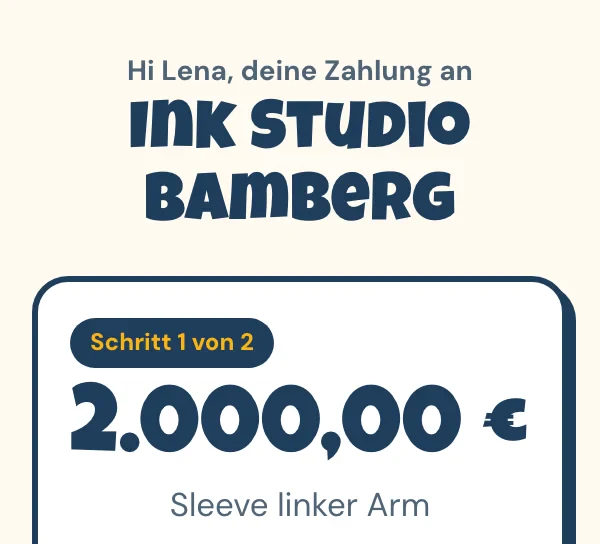
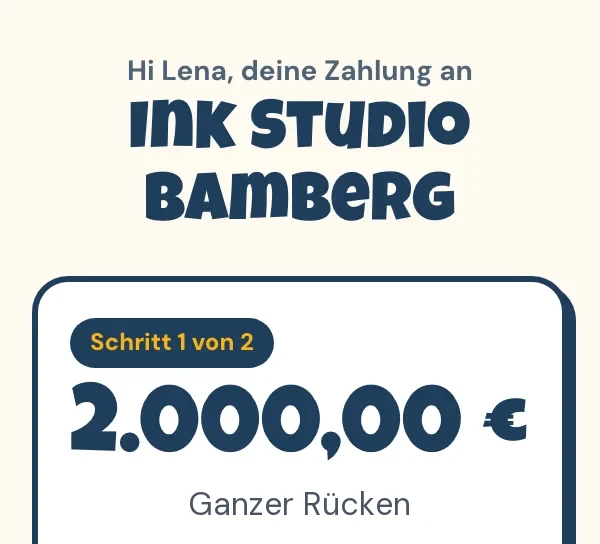
Tattoofin LP: Vertriebs-Umbau (Hero auf Inhaber, Anzeigen-Varianten, Entscheidungszone, Einwände, Preis-Wert, App-Hinweis, Cookie-Leiste Tablet)

Changed region(s): [[0.27, 0.9062, 0.72, 0.9688]]

diff --git a/tattoofin/website/public/studios.html b/tattoofin/website/public/studios.html
@@ -35,9 +35,10 @@
   <main id="inhalt">
   <section class="auftakt">
     <div class="auftakt-kopf">
-      <p class="kicker">Sleeve für 2.000&nbsp;€, aber dein Kunde hat's nicht auf einmal?</p>
-      <h1>Raten* für deine Kunden.</h1>
-      <p class="unterzeile">Link per WhatsApp. Kunde zahlt am Handy.</p>
+      <p class="kicker" data-hero="k">Tattoostudio-Besitzer, aufgepasst!</p>
+      <h1 data-hero="h">Ganzer Rücken? Du kriegst die 2.000&nbsp;€ auf einmal.</h1>
+      <p class="unterzeile" data-hero="s">Betrag rein, Link per WhatsApp raus. Dein Kunde zahlt am Handy, auch in Raten* über Klarna.</p>
+      <p class="hero-chips">Anzahlung · Raten* · Gutscheine – alles per Link</p>
     </div>
     <div class="buehne">
       <span class="deko dk-stern" aria-hidden="true"><svg class="motiv " viewBox="-4 -4 108 108" aria-hidden="true" focusable="false" ><path class="f" fill="#fbb316" d="M50.0 6.0 L61.4 36.4 L93.7 37.8 L68.4 58.0 L77.0 89.2 L50.0 71.3 L23.0 89.2 L31.6 58.0 L6.3 37.8 L38.6 36.4 Z" /><path class="l" pathLength="1" fill="none" stroke="#1f3d5c" stroke-width="5.5" stroke-linecap="round" stroke-linejoin="round" d="M50.0 6.0 L61.4 36.4 L93.7 37.8 L68.4 58.0 L77.0 89.2 L50.0 71.3 L23.0 89.2 L31.6 58.0 L6.3 37.8 L38.6 36.4 Z" /><path class="f" fill="#1f3d5c" d="M50 52 L50.0 6.0 L61.4 36.4 Z M50 52 L93.7 37.8 L68.4 58.0 Z M50 52 L77.0 89.2 L50.0 71.3 Z M50 52 L23.0 89.2 L31.6 58.0 Z M50 52 L6.3 37.8 L38.6 36.4 Z " /></svg></span>
@@ -52,12 +53,14 @@
       <img class="hausherr" src="/assets/start/figur.webp" alt="Tattoofin-Figur mit tätowierten Armen zeigt den Daumen hoch" width="300" height="310" decoding="async">
       <figure class="auftakt-handy">
         <span class="klebe" aria-hidden="true"></span>
-        <span class="handy-rahmen"><img src="/assets/start/handy-kunde-oben.webp" alt="Echte Tattoofin-Zahlseite am Handy: Hi Lena, deine Zahlung an Ink Studio Bamberg, Schritt 1 von 2, 2.000,00 Euro, Sleeve linker Arm. Beispieldaten." width="600" height="545" fetchpriority="high"><button type="button" class="film-knopf" data-film aria-haspopup="dialog"><span aria-hidden="true">▶</span> 10 Sek. ansehen</button></span>
+        <span class="handy-rahmen"><img src="/assets/start/handy-kunde-oben.webp" alt="Echte Tattoofin-Zahlseite am Handy: Hi Lena, deine Zahlung an Ink Studio Bamberg, Schritt 1 von 2, 2.000,00 Euro, Ganzer Rücken. Beispieldaten." width="600" height="545" fetchpriority="high"><button type="button" class="film-knopf" data-film aria-haspopup="dialog"><span aria-hidden="true">▶</span> 10 Sek. ansehen</button></span>
         <figcaption>Echte App · Beispieldaten</figcaption>
       </figure>
     </div>
     <div class="auftakt-fuss">
-      <div class="auftakt-knopf"><a class="knopf" href="/start.html?utm_source=studios&amp;utm_medium=seite&amp;utm_content=auftakt" data-umami-event="start-auftakt">Jetzt starten</a></div>
+      <p class="hero-beleg"><a href="#nr1">Echter Fall: Rücken-Tattoo, 900&nbsp;€ per Klarna bezahlt – 07.11.</a></p>
+      <div class="auftakt-knopf"><a class="knopf" href="/start.html?utm_source=studios&amp;utm_medium=seite&amp;utm_content=auftakt" data-umami-event="start-auftakt">Studio anmelden – 3&nbsp;Min.</a></div>
+      <p class="hero-wa"><a href="https://wa.me/491624502375?text=Hi%20Tattoofin-Team%2C%20ich%20habe%20eure%20Anzeige%20gesehen%2C%20habe%20ein%20Tattoo-Studio%20und%20eine%20Frage%20zu%20Tattoofin%3A" data-umami-event="whatsapp-auftakt">Lieber erst fragen? Schreib unserem Team per WhatsApp&nbsp;→</a></p>
       <p class="preiszeile">49,90&nbsp;€ im Monat inkl. MwSt. · keine Provision · monatlich kündbar <span class="b2b">· nur für Unternehmer</span></p>
       <p class="raten-fn">*Raten über Klarna, nach deren Bonitätsprüfung. Vertragspartner der Raten ist Klarna, nicht Tattoofin. Achtung! Kreditaufnahme kostet Geld.</p>
     </div>
@@ -91,6 +94,7 @@
 
   <section class="werkzeuge" aria-labelledby="werkzeuge-titel">
     <h2 id="werkzeuge-titel">Alles läuft übers Handy.</h2>
+    <p class="app-schild"><span class="app-neu">Neu</span> Tattoofin gibt’s auch als iPhone-App. Nach der Anmeldung bekommst du sie von uns.</p>
     <div class="stuecke">
       <article class="stueck" id="nr2">
         <div class="stueck-bild">
@@ -147,6 +151,16 @@
     </div>
   </section>
 
+  <section class="einwaende" aria-labelledby="einwaende-titel">
+    <h2 id="einwaende-titel">Klingt gut, aber …</h2>
+    <ul class="einwand-liste">
+      <li class="einwand"><p class="einwand-frage">„Ich hab schon SumUp &amp; Co.“</p><p>Behalt es. Dein Kartengerät kassiert an der Theke. Tattoofin kassiert vorher: Anzahlung per WhatsApp, Raten*, Gutscheine.</p></li>
+      <li class="einwand"><p class="einwand-frage">„Meine Kunden zahlen bar.“</p><p>Bar bleibt. Für eine Anzahlung muss dein Kunde dann aber extra vorbeikommen. Mit dem Link zahlt er sofort vom Sofa.</p></li>
+      <li class="einwand"><p class="einwand-frage">„Technik ist nicht meins.“</p><p>Musst du nicht können. Unser Team richtet alles mit dir ein, per WhatsApp.</p></li>
+      <li class="einwand"><p class="einwand-frage">„Brauch ich nicht.“</p><p>Denk an deine letzten No-Shows. Jeder davon hätte vorher anzahlen können.</p></li>
+    </ul>
+  </section>
+
   <section class="ablauf" id="ablauf" aria-labelledby="ablauf-titel">
     <h2 id="ablauf-titel">In 3 Schritten startklar.</h2>
     <ol>
@@ -158,7 +172,8 @@
 
   <section class="preis" id="preis" aria-labelledby="preis-titel">
     <div class="preis-innen">
-      <h2 id="preis-titel">49,90&nbsp;€ im Monat. Dazu nur Stripe.</h2>
+      <h2 id="preis-titel">Eine Anzahlung zahlt Tattoofin für Monate.</h2>
+      <p class="preis-rechnung">Kunde kommt nicht? Seine 100&nbsp;€ Anzahlung liegt schon bei dir. Das sind 2&nbsp;Monate Tattoofin.</p>
       <div class="preis-schild">
         <svg class="faden" viewBox="0 0 120 90" aria-hidden="true" focusable="false"><path d="M60 8 C42 30 78 52 60 86" fill="none" stroke="#fff7e3" stroke-width="4" stroke-linecap="round"/></svg>
         <span class="reisszwecke" aria-hidden="true"></span>
@@ -185,9 +200,10 @@
           <li>Keine Provision</li>
           <li>Keine Einrichtungsgebühr</li>
           <li>Monatlich kündbar</li>
-          <li>QR-Code zum Ausdrucken</li>
+          <li>Unser Team richtet’s mit dir ein</li>
+          <li>iPhone-App inklusive</li>
         </ul>
-        <div class="wege"><a class="knopf" href="/start.html?utm_source=studios&amp;utm_medium=seite&amp;utm_content=preis" data-umami-event="start-preis">Jetzt starten</a><a class="wa" href="/vertrag.html">Vertrag vorab lesen</a></div>
+        <div class="wege"><a class="knopf" href="/start.html?utm_source=studios&amp;utm_medium=seite&amp;utm_content=preis" data-umami-event="start-preis">Studio anmelden – 3&nbsp;Min.</a><a class="wa" href="/vertrag.html">Vertrag vorab lesen</a></div>
       </div>
     </div>
   </section>
@@ -206,9 +222,9 @@
 
   <section class="schluss">
     <div class="schluss-kopf">
-      <h2>Nächster Sleeve? Schick den Link.</h2>
+      <h2>Nächster Termin? Schick den Link.</h2>
       <p class="zeile">49,90&nbsp;€ im Monat inkl. MwSt. · monatlich kündbar <span class="b2b">· nur für Unternehmer</span></p>
-      <div class="wege"><a class="knopf" href="/start.html?utm_source=studios&amp;utm_medium=seite&amp;utm_content=schluss" data-umami-event="start-schluss">Jetzt starten</a><a class="wa" href="https://wa.me/491624502375?text=Hi%20Tattoofin-Team%2C%20ich%20habe%20eure%20Anzeige%20gesehen%2C%20habe%20ein%20Tattoo-Studio%20und%20eine%20Frage%20zu%20Tattoofin%3A" data-umami-event="whatsapp-schluss">Fragen? Schreib unserem Team per WhatsApp.</a></div>
+      <div class="wege"><a class="knopf" href="/start.html?utm_source=studios&amp;utm_medium=seite&amp;utm_content=schluss" data-umami-event="start-schluss">Studio anmelden – 3&nbsp;Min.</a><a class="wa" href="https://wa.me/491624502375?text=Hi%20Tattoofin-Team%2C%20ich%20habe%20eure%20Anzeige%20gesehen%2C%20habe%20ein%20Tattoo-Studio%20und%20eine%20Frage%20zu%20Tattoofin%3A" data-umami-event="whatsapp-schluss">Fragen? Schreib unserem Team per WhatsApp.</a></div>
     </div>
     <div class="hausherr-rahmen">
       <img class="hausherr-klein" src="/assets/start/figur.webp" alt="" width="300" height="310" loading="lazy" decoding="async">
@@ -278,7 +294,7 @@
 
   <aside class="leiste" id="leiste" aria-label="Schnellzugriff">
     <span class="leiste-preis">49,90&nbsp;€ im Monat<br>inkl. MwSt.</span>
-    <a class="knopf" href="/start.html?utm_source=studios&amp;utm_medium=seite&amp;utm_content=leiste" data-umami-event="start-leiste">Jetzt starten</a>
+    <a class="knopf" href="/start.html?utm_source=studios&amp;utm_medium=seite&amp;utm_content=leiste" data-umami-event="start-leiste">Studio anmelden</a>
     <a class="leiste-wa" href="https://wa.me/491624502375?text=Hi%20Tattoofin-Team%2C%20ich%20habe%20eure%20Anzeige%20gesehen%2C%20habe%20ein%20Tattoo-Studio%20und%20eine%20Frage%20zu%20Tattoofin%3A" aria-label="WhatsApp an das Tattoofin-Team" data-umami-event="whatsapp-leiste"><svg viewBox="0 0 24 24" aria-hidden="true" focusable="false"><path d="M12 2.8a9.2 9.2 0 0 0-7.9 13.9L2.9 21.2l4.6-1.2A9.2 9.2 0 1 0 12 2.8Z" fill="none" stroke="currentColor" stroke-width="2" stroke-linejoin="round"/><path d="M8.8 7.6c-.5 0-1 .6-1 1.7 0 2.9 3.7 6.9 7 6.9 1.100 0 1.700-.7 1.700-1.200 0-.4-.1-.7-.4-.9l-1.600-.8c-.3-.1-.5 0-.7.2l-.5.6c-.2.2-.4.2-.7.1-1-.4-2.100-1.500-2.500-2.500-.1-.3-.1-.5.1-.7l.5-.5c.2-.2.3-.4.2-.7l-.7-1.600c-.2-.4-.5-.5-.9-.5Z" fill="currentColor"/></svg></a>
   </aside>
 

diff --git a/tattoofin/website/public/index.html b/tattoofin/website/public/index.html
@@ -36,9 +36,10 @@
   <main id="inhalt">
   <section class="auftakt">
     <div class="auftakt-kopf">
-      <p class="kicker">Sleeve für 2.000&nbsp;€, aber dein Kunde hat's nicht auf einmal?</p>
-      <h1>Raten* für deine Kunden.</h1>
-      <p class="unterzeile">Link per WhatsApp. Kunde zahlt am Handy.</p>
+      <p class="kicker" data-hero="k">Tattoostudio-Besitzer, aufgepasst!</p>
+      <h1 data-hero="h">Ganzer Rücken? Du kriegst die 2.000&nbsp;€ auf einmal.</h1>
+      <p class="unterzeile" data-hero="s">Betrag rein, Link per WhatsApp raus. Dein Kunde zahlt am Handy, auch in Raten* über Klarna.</p>
+      <p class="hero-chips">Anzahlung · Raten* · Gutscheine – alles per Link</p>
     </div>
     <div class="buehne">
       <span class="deko dk-stern" aria-hidden="true"><svg class="motiv " viewBox="-4 -4 108 108" aria-hidden="true" focusable="false" ><path class="f" fill="#fbb316" d="M50.0 6.0 L61.4 36.4 L93.7 37.8 L68.4 58.0 L77.0 89.2 L50.0 71.3 L23.0 89.2 L31.6 58.0 L6.3 37.8 L38.6 36.4 Z" /><path class="l" pathLength="1" fill="none" stroke="#1f3d5c" stroke-width="5.5" stroke-linecap="round" stroke-linejoin="round" d="M50.0 6.0 L61.4 36.4 L93.7 37.8 L68.4 58.0 L77.0 89.2 L50.0 71.3 L23.0 89.2 L31.6 58.0 L6.3 37.8 L38.6 36.4 Z" /><path class="f" fill="#1f3d5c" d="M50 52 L50.0 6.0 L61.4 36.4 Z M50 52 L93.7 37.8 L68.4 58.0 Z M50 52 L77.0 89.2 L50.0 71.3 Z M50 52 L23.0 89.2 L31.6 58.0 Z M50 52 L6.3 37.8 L38.6 36.4 Z " /></svg></span>
@@ -53,12 +54,14 @@
       <img class="hausherr" src="/assets/start/figur.webp" alt="Tattoofin-Figur mit tätowierten Armen zeigt den Daumen hoch" width="300" height="310" decoding="async">
       <figure class="auftakt-handy">
         <span class="klebe" aria-hidden="true"></span>
-        <span class="handy-rahmen"><img src="/assets/start/handy-kunde-oben.webp" alt="Echte Tattoofin-Zahlseite am Handy: Hi Lena, deine Zahlung an Ink Studio Bamberg, Schritt 1 von 2, 2.000,00 Euro, Sleeve linker Arm. Beispieldaten." width="600" height="545" fetchpriority="high"><button type="button" class="film-knopf" data-film aria-haspopup="dialog"><span aria-hidden="true">▶</span> 10 Sek. ansehen</button></span>
+        <span class="handy-rahmen"><img src="/assets/start/handy-kunde-oben.webp" alt="Echte Tattoofin-Zahlseite am Handy: Hi Lena, deine Zahlung an Ink Studio Bamberg, Schritt 1 von 2, 2.000,00 Euro, Ganzer Rücken. Beispieldaten." width="600" height="545" fetchpriority="high"><button type="button" class="film-knopf" data-film aria-haspopup="dialog"><span aria-hidden="true">▶</span> 10 Sek. ansehen</button></span>
         <figcaption>Echte App · Beispieldaten</figcaption>
       </figure>
     </div>
     <div class="auftakt-fuss">
-      <div class="auftakt-knopf"><a class="knopf" href="/start.html" data-umami-event="start-auftakt">Jetzt starten</a></div>
+      <p class="hero-beleg"><a href="#nr1">Echter Fall: Rücken-Tattoo, 900&nbsp;€ per Klarna bezahlt – 07.11.</a></p>
+      <div class="auftakt-knopf"><a class="knopf" href="/start.html" data-umami-event="start-auftakt">Studio anmelden – 3&nbsp;Min.</a></div>
+      <p class="hero-wa"><a href="https://wa.me/491624502375?text=Hi%20Tattoofin-Team%2C%20ich%20habe%20ein%20Tattoo-Studio%20und%20eine%20Frage%20zu%20Tattoofin%3A" data-umami-event="whatsapp-auftakt">Lieber erst fragen? Schreib unserem Team per WhatsApp&nbsp;→</a></p>
       <p class="preiszeile">49,90&nbsp;€ im Monat inkl. MwSt. · keine Provision · monatlich kündbar <span class="b2b">· nur für Unternehmer</span></p>
       <p class="raten-fn">*Raten über Klarna, nach deren Bonitätsprüfung. Vertragspartner der Raten ist Klarna, nicht Tattoofin. Achtung! Kreditaufnahme kostet Geld.</p>
     </div>
@@ -92,6 +95,7 @@
 
   <section class="werkzeuge" aria-labelledby="werkzeuge-titel">
     <h2 id="werkzeuge-titel">Alles läuft übers Handy.</h2>
+    <p class="app-schild"><span class="app-neu">Neu</span> Tattoofin gibt’s auch als iPhone-App. Nach der Anmeldung bekommst du sie von uns.</p>
     <div class="stuecke">
       <article class="stueck" id="nr2">
         <div class="stueck-bild">
@@ -148,6 +152,16 @@
     </div>
   </section>
 
+  <section class="einwaende" aria-labelledby="einwaende-titel">
+    <h2 id="einwaende-titel">Klingt gut, aber …</h2>
+    <ul class="einwand-liste">
+      <li class="einwand"><p class="einwand-frage">„Ich hab schon SumUp &amp; Co.“</p><p>Behalt es. Dein Kartengerät kassiert an der Theke. Tattoofin kassiert vorher: Anzahlung per WhatsApp, Raten*, Gutscheine.</p></li>
+      <li class="einwand"><p class="einwand-frage">„Meine Kunden zahlen bar.“</p><p>Bar bleibt. Für eine Anzahlung muss dein Kunde dann aber extra vorbeikommen. Mit dem Link zahlt er sofort vom Sofa.</p></li>
+      <li class="einwand"><p class="einwand-frage">„Technik ist nicht meins.“</p><p>Musst du nicht können. Unser Team richtet alles mit dir ein, per WhatsApp.</p></li>
+      <li class="einwand"><p class="einwand-frage">„Brauch ich nicht.“</p><p>Denk an deine letzten No-Shows. Jeder davon hätte vorher anzahlen können.</p></li>
+    </ul>
+  </section>
+
   <section class="ablauf" id="ablauf" aria-labelledby="ablauf-titel">
     <h2 id="ablauf-titel">In 3 Schritten startklar.</h2>
     <ol>
@@ -159,7 +173,8 @@
 
   <section class="preis" id="preis" aria-labelledby="preis-titel">
     <div class="preis-innen">
-      <h2 id="preis-titel">49,90&nbsp;€ im Monat. Dazu nur Stripe.</h2>
+      <h2 id="preis-titel">Eine Anzahlung zahlt Tattoofin für Monate.</h2>
+      <p class="preis-rechnung">Kunde kommt nicht? Seine 100&nbsp;€ Anzahlung liegt schon bei dir. Das sind 2&nbsp;Monate Tattoofin.</p>
       <div class="preis-schild">
         <svg class="faden" viewBox="0 0 120 90" aria-hidden="true" focusable="false"><path d="M60 8 C42 30 78 52 60 86" fill="none" stroke="#fff7e3" stroke-width="4" stroke-linecap="round"/></svg>
         <span class="reisszwecke" aria-hidden="true"></span>
@@ -186,9 +201,10 @@
           <li>Keine Provision</li>
           <li>Keine Einrichtungsgebühr</li>
           <li>Monatlich kündbar</li>
-          <li>QR-Code zum Ausdrucken</li>
+          <li>Unser Team richtet’s mit dir ein</li>
+          <li>iPhone-App inklusive</li>
         </ul>
-        <div class="wege"><a class="knopf" href="/start.html" data-umami-event="start-preis">Jetzt starten</a><a class="wa" href="/vertrag.html">Vertrag vorab lesen</a></div>
+        <div class="wege"><a class="knopf" href="/start.html" data-umami-event="start-preis">Studio anmelden – 3&nbsp;Min.</a><a class="wa" href="/vertrag.html">Vertrag vorab lesen</a></div>
       </div>
     </div>
   </section>
@@ -207,9 +223,9 @@
 
   <section class="schluss">
     <div class="schluss-kopf">
-      <h2>Nächster Sleeve? Schick den Link.</h2>
+      <h2>Nächster Termin? Schick den Link.</h2>
       <p class="zeile">49,90&nbsp;€ im Monat inkl. MwSt. · monatlich kündbar <span class="b2b">· nur für Unternehmer</span></p>
-      <div class="wege"><a class="knopf" href="/start.html" data-umami-event="start-schluss">Jetzt starten</a><a class="wa" href="https://wa.me/491624502375?text=Hi%20Tattoofin-Team%2C%20ich%20habe%20ein%20Tattoo-Studio%20und%20eine%20Frage%20zu%20Tattoofin%3A" data-umami-event="whatsapp-schluss">Fragen? Schreib unserem Team per WhatsApp.</a></div>
+      <div class="wege"><a class="knopf" href="/start.html" data-umami-event="start-schluss">Studio anmelden – 3&nbsp;Min.</a><a class="wa" href="https://wa.me/491624502375?text=Hi%20Tattoofin-Team%2C%20ich%20habe%20ein%20Tattoo-Studio%20und%20eine%20Frage%20zu%20Tattoofin%3A" data-umami-event="whatsapp-schluss">Fragen? Schreib unserem Team per WhatsApp.</a></div>
     </div>
     <div class="hausherr-rahmen">
       <img class="hausherr-klein" src="/assets/start/figur.webp" alt="" width="300" height="310" loading="lazy" decoding="async">
@@ -234,7 +250,7 @@
 
   <aside class="leiste" id="leiste" aria-label="Schnellzugriff">
     <span class="leiste-preis">49,90&nbsp;€ im Monat<br>inkl. MwSt.</span>
-    <a class="knopf" href="/start.html" data-umami-event="start-leiste">Jetzt starten</a>
+    <a class="knopf" href="/start.html" data-umami-event="start-leiste">Studio anmelden</a>
     <a class="leiste-wa" href="https://wa.me/491624502375?text=Hi%20Tattoofin-Team%2C%20ich%20habe%20ein%20Tattoo-Studio%20und%20eine%20Frage%20zu%20Tattoofin%3A" aria-label="WhatsApp an das Tattoofin-Team" data-umami-event="whatsapp-leiste"><svg viewBox="0 0 24 24" aria-hidden="true" focusable="false"><path d="M12 2.8a9.2 9.2 0 0 0-7.9 13.9L2.9 21.2l4.6-1.2A9.2 9.2 0 1 0 12 2.8Z" fill="none" stroke="currentColor" stroke-width="2" stroke-linejoin="round"/><path d="M8.8 7.6c-.5 0-1 .6-1 1.7 0 2.9 3.7 6.9 7 6.9 1.100 0 1.700-.7 1.700-1.200 0-.4-.1-.7-.4-.9l-1.600-.8c-.3-.1-.5 0-.7.2l-.5.6c-.2.2-.4.2-.7.1-1-.4-2.100-1.500-2.500-2.500-.1-.3-.1-.5.1-.7l.5-.5c.2-.2.3-.4.2-.7l-.7-1.600c-.2-.4-.5-.5-.9-.5Z" fill="currentColor"/></svg></a>
   </aside>
 

diff --git a/tattoofin/website/public/assets/start/app.js b/tattoofin/website/public/assets/start/app.js
@@ -129,4 +129,28 @@
     });
     aus.forEach(function (el) { if (el) ioAus.observe(el); });
   }
+
+  // Erster Bildschirm passend zur Anzeige (16.11.2026): nur Dachzeile, Überschrift, Unterzeile und Knopftext wechseln.
+  // Kennung kommt aus utm_content der Meta-Anzeigen (tv-a No-Show, tv-b Rücken, tv-c 10 Sekunden, tv-d Weihnachten, bild-d2/d Anzahlung).
+  (function () {
+    var q = new URLSearchParams(location.search), u = (q.get('utm_content') || q.get('hero') || '').toLowerCase();
+    var v = '';
+    if (/(^|[^a-z])tv-?a([^a-z]|$)|^d$|bild-?d2?|no-?show|anzahlung/.test(u)) v = 'noshow';
+    else if (/(^|[^a-z])tv-?c([^a-z]|$)|10-?sek|link/.test(u)) v = 'link';
+    else if (/(^|[^a-z])tv-?d([^a-z]|$)|gutschein|weihnacht/.test(u)) v = new Date() < new Date('2026-12-25T00:00:00+01:00') ? 'gutschein' : 'link';
+    var V = {
+      noshow: { k: 'Termin geblockt, Kunde kommt nicht?', h: 'Erst Anzahlung. Dann Termin.', s: 'Anzahlungs-Link per WhatsApp. Kunde zahlt am Handy, dann blockst du den Termin.', c: 'Anzahlungen einrichten – 3\u00a0Min.',
+        bild: '/assets/start/handy-anzahlung-oben.webp', alt: 'Echte Tattoofin-Zahlseite am Handy: Hi Kai, deine Zahlung an Ink Studio Bamberg, 150 Euro, Rückenstück, Termin Freitag, Anzahlung. Beispieldaten.' },
+      link: { k: 'Schluss mit Überweisung und Hinterherschreiben.', h: 'Betrag rein. Link raus. Bezahlt.', s: 'Karte, Apple Pay, Google Pay oder Raten* über Klarna. Das Geld geht auf dein eigenes Stripe-Konto.' },
+      gutschein: { k: 'Weihnachten kommt.', h: 'Gutscheine per Link verkaufen.', s: 'Kunde zahlt am Handy und bekommt Code und PDF zum Verschenken. Das Geld ist schon bei dir.', c: 'Gutscheine einrichten – 3\u00a0Min.' }
+    }[v];
+    var knopf = document.querySelector('.auftakt-knopf .knopf');
+    if (knopf) knopf.setAttribute('data-umami-event-hero', v || 'ruecken');
+    if (!V) return;
+    var setze = function (sel, txt) { var el = document.querySelector(sel); if (el && txt) el.textContent = txt; };
+    setze('[data-hero="k"]', V.k); setze('[data-hero="h"]', V.h); setze('[data-hero="s"]', V.s);
+    if (knopf && V.c) knopf.textContent = V.c;
+    if (V.bild) { var b = document.querySelector('.auftakt-handy img'); if (b) { b.src = V.bild; b.alt = V.alt; } }
+    document.documentElement.setAttribute('data-hero', v);
+  })();
 })();

diff --git a/tattoofin/website/public/assets/start/style.css b/tattoofin/website/public/assets/start/style.css
@@ -447,3 +447,24 @@ svg.stech.los .f,svg.stech.los .t{opacity:1;transition:opacity .4s .55s}
 }
 /* Schwebender WhatsApp-Knopf (tf-track.js): am Handy aus, die Leiste unten hat ihren eigenen WhatsApp-Knopf */
 @media (max-width:899px){.tf-wa{display:none!important}}
+
+/* ---------- Vertriebs-Umbau 16.11.2026: Entscheidungszone, App-Schild, Einwände, Preis-Rechnung ---------- */
+.hero-chips{margin-top:6px;font-weight:700;font-size:14px;line-height:1.3}
+.hero-beleg a{display:inline-block;background:var(--hell);border:2.5px dashed var(--blau);border-radius:6px;padding:4px 10px 3px;font-weight:800;font-size:14px;line-height:1.3;text-decoration:none;transform:rotate(-1.5deg)}
+.hero-beleg a::before{content:"✓ ";color:#1f7a3a}
+.hero-wa{font-weight:700;font-size:15px;line-height:1.35}
+.hero-wa a{text-underline-offset:3px}
+.auftakt h1{font-size:clamp(34px,9.4vw,76px)}
+@media (min-width:900px){.hero-chips{display:none}.hero-beleg a{font-size:15px}.hero-wa{font-size:16px}}
+@media (max-width:599px){.buehne{height:clamp(220px,58vw,280px)}.hausherr{width:27%}}
+@media (max-width:599px) and (max-height:700px){.auftakt h1{font-size:31px}.hero-chips{display:none}}
+.app-schild{display:flex;align-items:center;gap:10px;flex-wrap:wrap;margin-top:14px;max-width:46em;font-weight:700;line-height:1.35}
+.app-neu{display:inline-block;background:var(--gelb);border:2.5px solid var(--blau);border-radius:6px;padding:2px 8px 0;font:400 15px/1.2 var(--anzeige);text-transform:uppercase;transform:rotate(-4deg)}
+.einwaende{position:relative;padding:20px var(--rand) 28px}
+.einwand-liste{list-style:none;display:grid;gap:14px;margin-top:18px}
+.einwand{background:var(--hell);border:3px solid var(--blau);border-radius:14px;box-shadow:4px 4px 0 var(--blau);padding:14px 16px 13px;line-height:1.4}
+.einwand-frage{font-family:var(--anzeige);text-transform:uppercase;font-size:clamp(19px,5vw,23px);line-height:1.1;padding-top:.08em;margin-bottom:6px}
+@media (min-width:720px){.einwand-liste{grid-template-columns:1fr 1fr;gap:18px}}
+@media (min-width:1100px){.einwand-liste{grid-template-columns:repeat(4,minmax(0,1fr))}.einwaende{padding-top:36px;padding-bottom:40px}}
+.preis-rechnung{font-weight:700;font-size:17px;line-height:1.4;max-width:40em}
+@media (min-width:900px){.preis-rechnung{grid-column:1/-1;margin-top:-8px;font-size:19px}}

diff --git a/tattoofin/website/public/js/tf-track.js b/tattoofin/website/public/js/tf-track.js
@@ -76,6 +76,9 @@ window.TFTrack = (function () {
     // beide Knöpfe gleich groß und gleich gestaltet (kein Dark Pattern)
     ".tf-cc .r{margin-top:6px;gap:8px;flex-wrap:nowrap}.tf-cc button,.tf-cc button.ja{min-width:0;padding:7px 6px;font-size:13.5px;border-width:2px;background:#fff;color:#1f3d5c}}" +
     // Handy quer / sehr niedrige Fenster: Text links, Knöpfe rechts in einer Zeile (statt halber Bildschirm); Platz für die Sicherheitsränder (Notch)
+    // Tablet (16.11.2026): flache Leiste statt großem Kasten, damit Knopf und Preis im ersten Bildschirm frei bleiben
+    "@media (min-width:601px) and (max-width:999px){.tf-cc{max-width:none;margin:0;left:max(10px,env(safe-area-inset-left));right:max(10px,env(safe-area-inset-right));bottom:max(10px,env(safe-area-inset-bottom));display:flex;align-items:center;gap:14px;padding:8px 12px;font-size:13.5px;line-height:1.35;border-width:2px;box-shadow:3px 3px 0 #1f3d5c;border-radius:14px}" +
+    ".tf-cc b,.tf-cc .lang{display:none}.tf-cc .kurz{display:inline}.tf-cc .r{margin:0;flex:none;flex-wrap:nowrap}.tf-cc button{flex:none;min-width:0;padding:8px 14px;font-size:14px;border-width:2px}body.tf-cc-offen{padding-bottom:84px}}" +
     "@media (max-height:520px) and (min-width:601px){.tf-cc{max-width:none;margin:0;left:max(8px,env(safe-area-inset-left));right:max(8px,env(safe-area-inset-right));bottom:max(8px,env(safe-area-inset-bottom));display:flex;align-items:center;gap:14px;padding:8px 12px;font-size:13px;line-height:1.35}" +
     ".tf-cc b,.tf-cc .lang{display:none}.tf-cc .kurz{display:inline}.tf-cc .r{margin:0;flex:none;flex-wrap:nowrap}.tf-cc button{flex:none;min-width:0;padding:8px 14px;font-size:14px;border-width:2px}body.tf-cc-offen{padding-bottom:84px}}";
 
